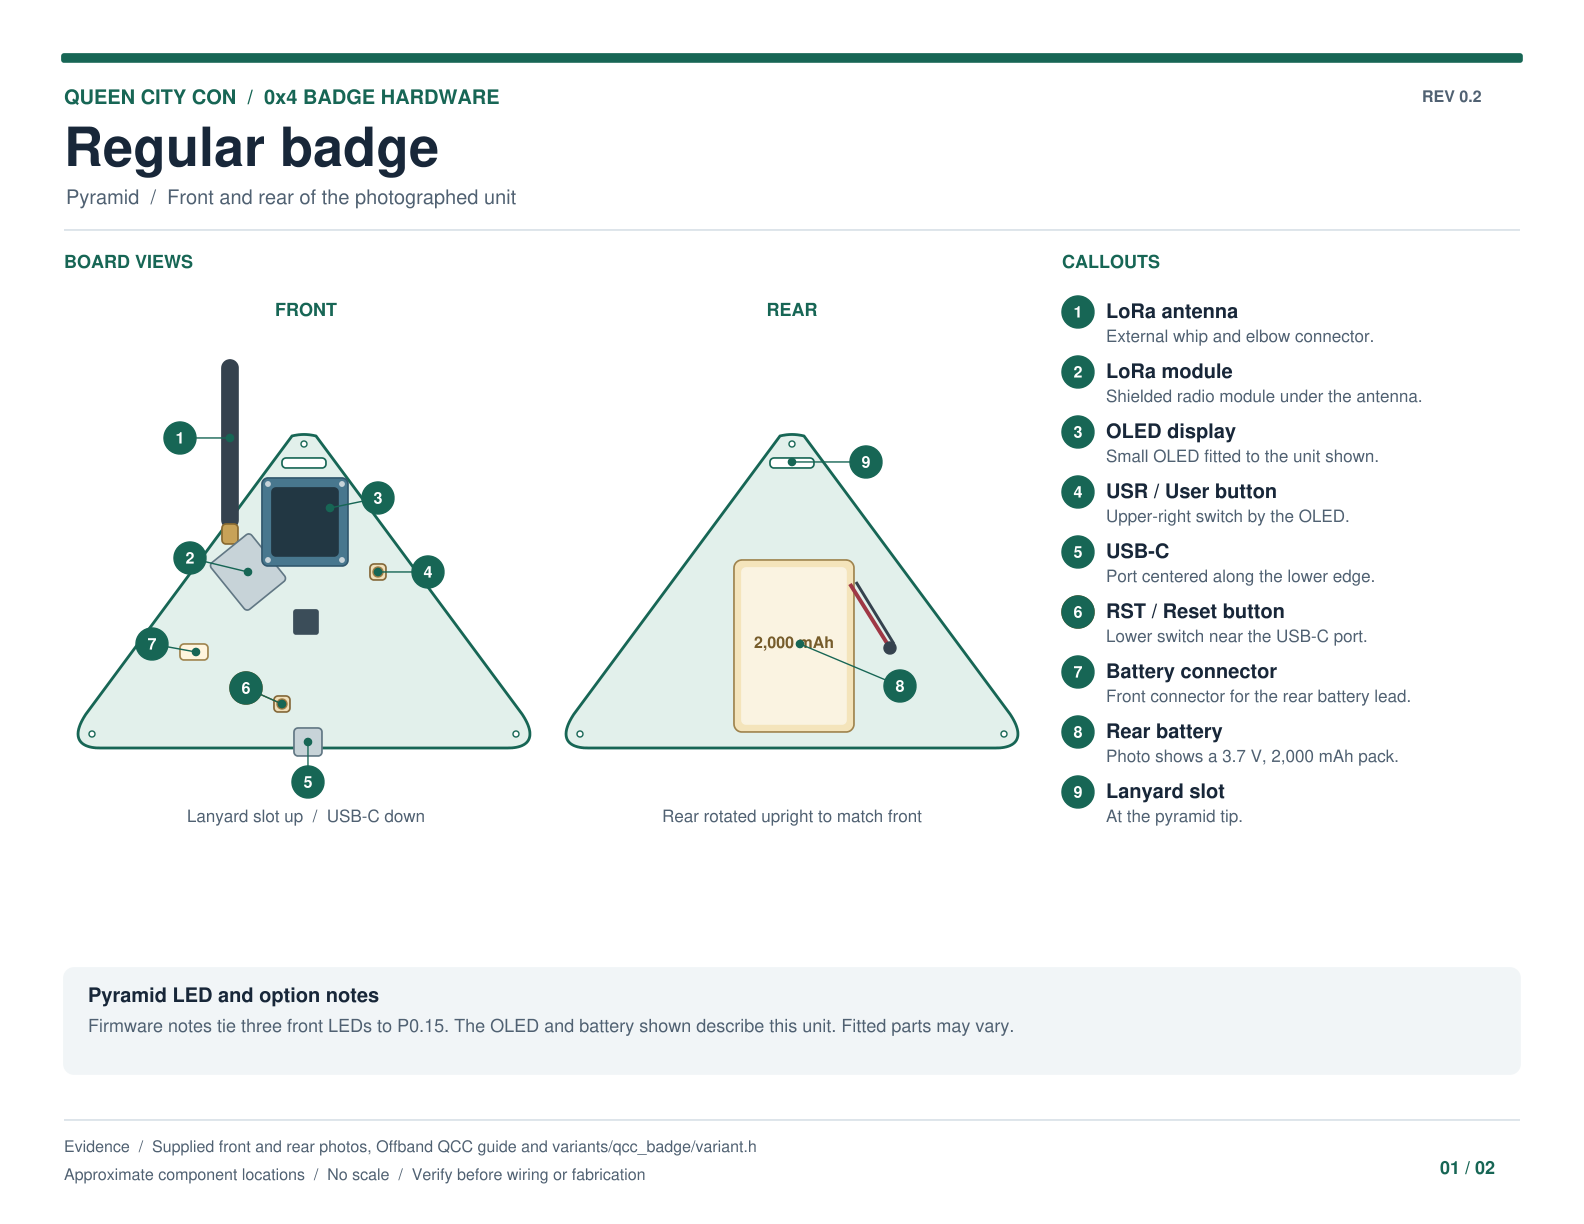
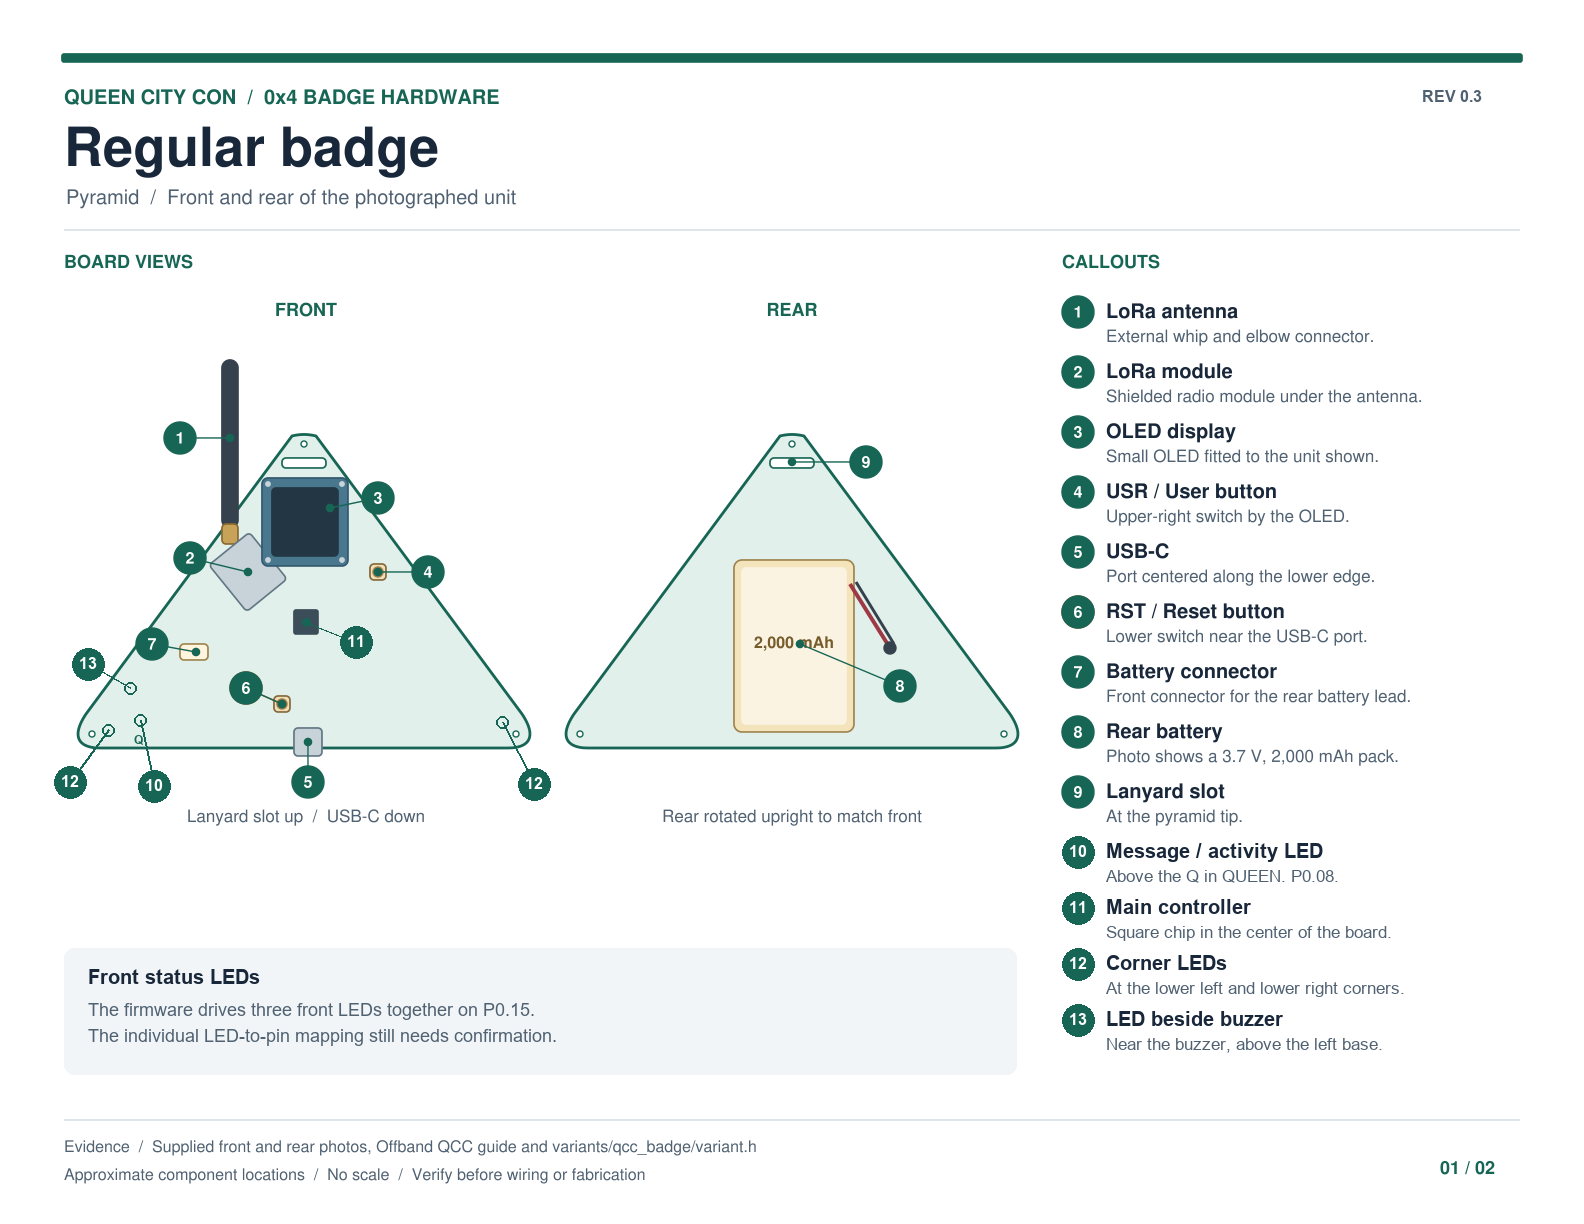
task(#2052): revision 0.3 of the pyramid diagram
The owner's revision adds the message LED above the Q, the main controller,
the two corner LEDs and the LED beside the buzzer. The alt text lists them.

Tests: check_user_docs.py passes, the strict mkdocs build is clean and
test_build_user_docs.py passes.

diff --git a/docs/user/guides/qcc-badge.md b/docs/user/guides/qcc-badge.md
@@ -19,7 +19,7 @@ The QCC badge firmware, on every badge. Needs firmware newer than `offband-v1.6.
 A supporter badge has a screen and a keyboard. A pyramid badge has neither unless one
 was added, and some badges have no buzzer or GPS.
 
-![Pyramid badge, front and rear: LoRa antenna, LoRa module, OLED display, USR button, USB-C, RST button, battery connector, rear battery and lanyard slot](../assets/qcc/qcc-badge-pyramid.png)
+![Pyramid badge, front and rear: LoRa antenna, LoRa module, OLED display, USR button, USB-C, RST button, battery connector, rear battery, lanyard slot, message LED above the Q, main controller, two corner LEDs and the LED beside the buzzer](../assets/qcc/qcc-badge-pyramid.png)
 
 ![Supporter badge, with and without the display and keyboard: LoRa antenna, OLED display, message LED, SW1 user button, keyboard, LoRa module, GPS module, battery, RESET, MUTE switch and buzzer, ProMicro with USB-C, and POWER switch](../assets/qcc/qcc-badge-supporter.png)
 
